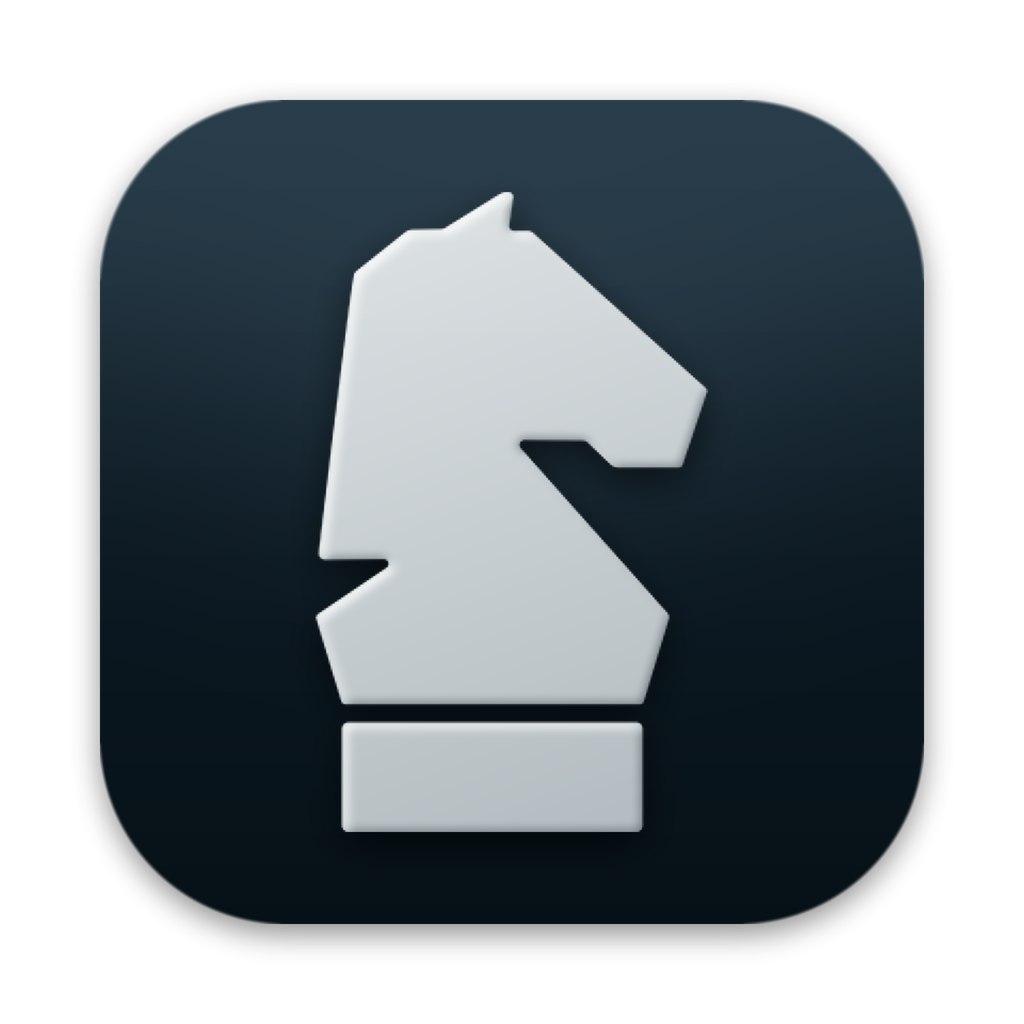
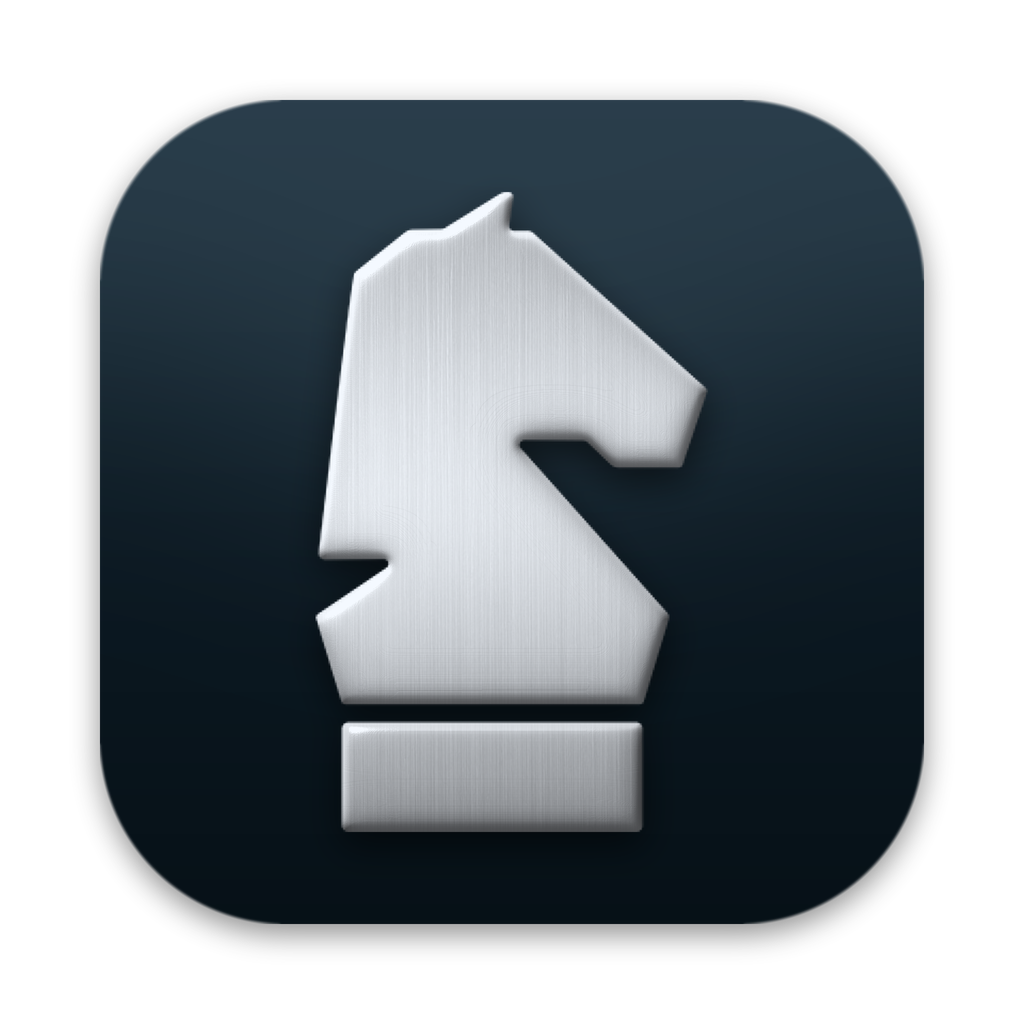
ícones: cavalo em prata escovada cromada (textura gerada com Z-Image Turbo local + chanfro/normais/especular), mesmo contorno

diff --git a/scripts/icones/gerar_icones.py b/scripts/icones/gerar_icones.py
@@ -50,6 +50,42 @@ def metal(mask, escala, claro=(250, 252, 252), escuro=(150, 162, 168), relevo=1.
     base.putalpha(mask)
     return base
 
+def cromo(mask, escala):
+    """Cavalo em prata escovada cromada: textura gerada (Z-Image Turbo, textura_prata.png) +
+    chanfro arredondado com normais, luz de cima-esquerda, reflexo especular e ambiente."""
+    import numpy as np
+    w, h = mask.size
+    m = np.asarray(mask, dtype=np.float32) / 255.0
+    alt = np.zeros_like(m)
+    for r, peso in ((4, .30), (10, .35), (22, .35)):
+        alt += peso * np.asarray(mask.filter(ImageFilter.GaussianBlur(r * escala)), dtype=np.float32) / 255.0
+    alt = np.clip(alt, 0, 1) ** 0.7
+    gy, gx = np.gradient(alt * 70.0 * escala / 2)
+    n = np.dstack((-gx, -gy, np.ones_like(m)))
+    n /= np.linalg.norm(n, axis=2, keepdims=True)
+    L = np.array([-0.45, -0.75, 0.55]); L /= np.linalg.norm(L)
+    dif = np.clip((n * L).sum(2), 0, 1)
+    R = 2 * (n[..., 2:3]) * n - np.array([0, 0, 1.0])
+    esp = np.clip((R * L).sum(2), 0, 1) ** 28
+    # ambiente de estudio: ceu claro em cima, linha escura no horizonte, chao medio
+    amb = np.interp(n[..., 1] + 0.5 * n[..., 0], [-1.5, -0.4, 0.0, 0.35, 1.5], [1.05, 1.0, 0.50, 0.22, 0.40])
+    tex = Image.open(os.path.join(D, "textura_prata.png")).convert("L").resize((w, h), Image.LANCZOS)
+    t = np.asarray(tex, dtype=np.float32) / 255.0
+    t = 0.30 + 0.85 * t
+    plano = n[..., 2] > 0.995
+    base = t * (0.70 + 0.40 * dif)
+    borda = np.clip((1 - n[..., 2]) * 1.6, 0, 1) ** 0.5
+    v = base * (1 - borda) + amb * borda
+    v = v + 0.9 * esp
+    # leve gradiente vertical (topo mais claro)
+    yy, xx = np.mgrid[0:h, 0:w]
+    v *= 1.10 - 0.30 * (0.65 * yy / h + 0.35 * xx / w)
+    v = np.clip(v, 0, 1)
+    rgb = np.dstack((v * 236 + 8, v * 241 + 8, v * 246 + 9)).clip(0, 255).astype(np.uint8)
+    out = Image.fromarray(rgb, "RGB").convert("RGBA")
+    out.putalpha(mask)
+    return out
+
 def sombra(mask, dx, dy, blur, alpha):
     s = Image.new("RGBA", mask.size, (0, 0, 0, 0))
     m = deslocar(mask, dx, dy).filter(ImageFilter.GaussianBlur(blur)).point(lambda v: int(v * alpha))
@@ -134,7 +170,7 @@ def corpo(glifo=None, nome=None):
     y0 = (B - alt) // 2
     mk.paste(cv, (x0, y0))
     im.alpha_composite(sombra(mk, 0, 14 * e, 18 * e, 0.55))
-    im.alpha_composite(metal(mk, e))
+    im.alpha_composite(cromo(mk, e))
     leds = []
     sel = os.path.join(D, "selos", (nome or "") + ".png")
     if glifo and os.path.isfile(sel):
